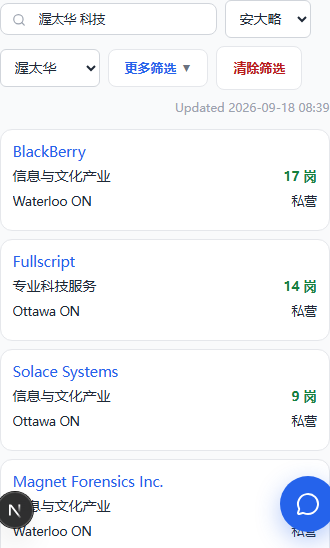
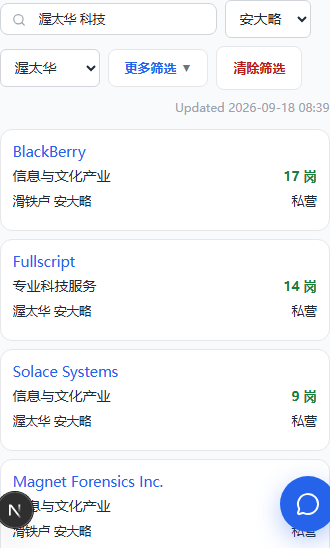
docs(design): 雇主板市格撤英文灰注(Frank「英文 城市 也去掉」)[skip render]

diff --git a/docs/design/雇主分类与搜索-20260918.md b/docs/design/雇主分类与搜索-20260918.md
@@ -85,7 +85,7 @@
 
 - 行业:只显部门中文名,不带代码灰注;推断的加「推断」灰注。
 - 类别:纯文字,不用胶囊(2026-09-18 Frank「这个不需要显示胶囊」:整列同一个值时一排胶囊是噪音);手机卡片上放在总部那一行右侧,同为纯文字。
-- 省:界面语言全名(09-11 省份显示约定)。市:界面语言主文案 + 英文名灰注,不挂「总部」灰注。
+- 省:界面语言全名(09-11 省份显示约定)。市:只显界面语言城市名,**不带英文灰注**(2026-09-18 Frank「英文 城市 也去掉」;09-11 拍的 CityNameCell 双行形在本板改判 —— 省已单独成列,灰注里的英文名与省码都成了重复;译名表外的小地方直接英文主文案,照旧)。不挂「总部」灰注。
 - **LMIA 一格**(列名就叫「LMIA」,2026-09-18 Frank「就叫 lmia 不行吗」:限定词是数据口径不是用户文案):数 = 近两年高薪流 + 全球人才流获批份数(2025 全年 39,852 个职位、18,709 家雇主,主体是 TEER 2 / 3 的卡车司机、木工、餐厅经理、焊工、机修;软件两职业合计 3.4%),「连续办」灰注 = 2024、2025 两年都有记录;0 显「—」。农业 / 低薪流不上板,只在公司页担保记录卡按流拆开。
 - 排序键:默认在招岗数降序;行业 / 类别 / 指定 / LMIA 可点排序;裸 LMIA 总量永不入排序(08-29)。
 - 口径注(保留类文案):「行业与类别为本站归类,不等于资格认定;被指定不等于在招」。
@@ -176,6 +176,7 @@
 14. 类别格纯文字不用胶囊(Frank「这个不需要显示胶囊」)。
 15. 加「字段」钮自选列,照职位板;指定雇主、LMIA 默认不勾,筛了自动勾(Frank「应该加一个字段按钮」)。第 12 条并入本条。
 16. 点雇主名开公司弹框,与职位板同一件(Frank「雇主弹框也加上」)。
+19. 市格不带英文灰注,一格一行(Frank「英文 城市 也去掉」)。
 18. 省、市分两列,值默认就是总部,板上不标「总部」字样(Frank「省 市 是不是分两个字段」「灰注去掉,默认就是总部」)。
 17. 外框照职位板:筛选行铺灰底、表格单独白壳,白卡外框撤(Frank「也改成职位板那样」)。筛选行逐位照职位板布局;省下拉保留,城市随省联动;经验与 LMIA 进「更多筛选」(Frank「可以参考下 job 页面的布局吗」「省份筛选加了吗」)。
 
